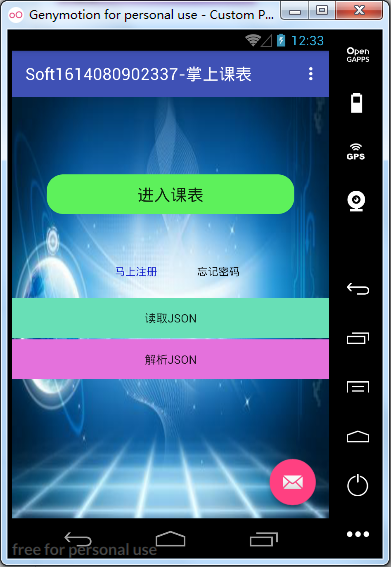
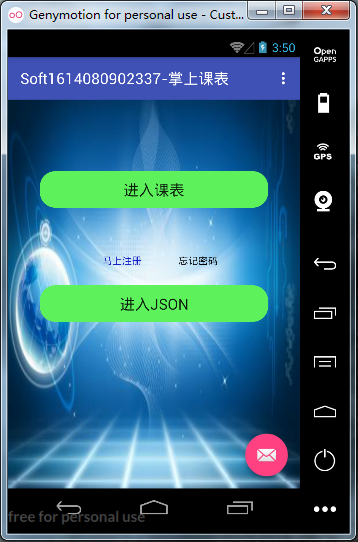
#6 实验六修改

diff --git a/soft1614080902337/app/java/JsonActivity.java b/soft1614080902337/app/java/JsonActivity.java
@@ -7,6 +7,8 @@ import android.support.v7.app.AppCompatActivity;
 import android.support.v7.widget.Toolbar;
 import android.util.Log;
 import android.view.View;
+import android.widget.Button;
+import android.widget.TextView;
 
 import org.json.JSONArray;
 import org.json.JSONException;
@@ -38,68 +40,98 @@ public class JsonActivity extends AppCompatActivity {
                         .setAction("Action", null).show();
             }
         });
-    }
 
-    //网络编程获取Json
-    public void getJson()
-    {
-        new Thread(
-                new Runnable() {
-                    @Override
-                    public void run() {
-                        String url_s = "https://raw.githubusercontent.com/DcXuhm/android-labs-2018/master/soft1614080902337/app/assets/text.json";
-                        try {
-                            URL url = new URL(url_s);
-                            HttpURLConnection conn =(HttpURLConnection)url.openConnection();
-                            conn.setConnectTimeout(5000);
-                            conn.setUseCaches(false);
+        Button readJson = (Button)findViewById(R.id.readJson);
+        Button parseJson = (Button)findViewById(R.id.parseJson);
+        final TextView Json_TV_read =(TextView)findViewById(R.id.Json_TV_read);
+        final TextView Json_TV_parse =(TextView)findViewById(R.id.Json_TV_parse);
 
-                            conn.connect();
-                            InputStream inputStream = conn.getInputStream();
-                            InputStreamReader reader = new InputStreamReader(inputStream);
-                            BufferedReader buffer = new BufferedReader(reader);
-                            if(conn.getResponseCode()==200)
-                            {
-                                String inputline;
-                                StringBuffer resultdata = new StringBuffer();
-                                while ((inputline = buffer.readLine())!=null)
-                                {
-                                    resultdata.append(inputline);
-                                }
-                                text=resultdata.toString();
-                                Log.v("out---------------->",text);
-                            }
-                        } catch (Exception e) {
-                            e.printStackTrace();
-                        }
-                    }
-                }
-        ).start();
-    }
-
-    public void parseJson()
-    {
-        new Thread(new Runnable() {
+        readJson.setOnClickListener(new View.OnClickListener() {
             @Override
-            public void run() {
+            public void onClick(View v) {
+                //网络编程获取Json
+                new Thread(
+                        new Runnable() {
+                            @Override
+                            public void run() {
+                                String url_s = "https://raw.githubusercontent.com/DcXuhm/android-labs-2018/master/soft1614080902337/app/assets/text.json";
+                                try {
+                                    URL url = new URL(url_s);
+                                    HttpURLConnection conn =(HttpURLConnection)url.openConnection();
+                                    conn.setConnectTimeout(5000);
+                                    conn.setUseCaches(false);
+
+                                    conn.connect();
+                                    InputStream inputStream = conn.getInputStream();
+                                    InputStreamReader reader = new InputStreamReader(inputStream);
+                                    BufferedReader buffer = new BufferedReader(reader);
+                                    if(conn.getResponseCode()==200)
+                                    {
+                                        String inputline;
+                                        StringBuffer resultdata = new StringBuffer();
+                                        while ((inputline = buffer.readLine())!=null)
+                                        {
+                                            resultdata.append(inputline);
+                                        }
+                                        text=resultdata.toString();
+                                    }
+                                } catch (Exception e) {
+                                    e.printStackTrace();
+                                }
+                            }
+                        }
+                ).start();
+                Json_TV_read.setText(text);
+            }
+        });
+
+
+        parseJson.setOnClickListener(new View.OnClickListener() {
+            @Override
+            public void onClick(View v) {
                 try {
                     JSONObject jsonObject = new JSONObject(text);
                     JSONArray jsonstudents = jsonObject.getJSONArray("students");
-                    String test;
                     for(int i=0;i<jsonstudents.length();i++)
                     {
                         JSONObject students = jsonstudents.getJSONObject(i);
-                        Log.d("The student is ",
-                                students.getString("name")+","+students.getString("Sex")+","+students.getInt("age"));
+                        Json_TV_parse.append("name:"+students.getString("name")+"\n");
+                        Json_TV_parse.append("Sex:"+students.getString("Sex")+"\n");
+                        Json_TV_parse.append("age:"+students.getString("age")+"\n");
                     }
 
                 } catch (Exception e) {
                     e.printStackTrace();
-                }
             }
-        }).start();
+        }}
+        );
+                                     }
 
-    }
+
+
+//    public void parseJson()
+//    {
+//        new Thread(new Runnable() {
+//            @Override
+//            public void run() {
+//                try {
+//                    JSONObject jsonObject = new JSONObject(text);
+//                    JSONArray jsonstudents = jsonObject.getJSONArray("students");
+//                    String test;
+//                    for(int i=0;i<jsonstudents.length();i++)
+//                    {
+//                        JSONObject students = jsonstudents.getJSONObject(i);
+//                        Log.d("The student is ",
+//                                students.getString("name")+","+students.getString("Sex")+","+students.getInt("age"));
+//                    }
+//
+//                } catch (Exception e) {
+//                    e.printStackTrace();
+//                }
+//            }
+//        }).start();
+//
+//    }
 
 
 }

diff --git a/soft1614080902337/app/java/Soft1614080902337Activity.java b/soft1614080902337/app/java/Soft1614080902337Activity.java
@@ -14,7 +14,7 @@ import android.widget.Button;
 
 public class Soft1614080902337Activity extends AppCompatActivity implements OnClickListener{
 
-    JsonActivity jsonActivity = new JsonActivity();
+
     @Override
     protected void onCreate(Bundle savedInstanceState) {
         super.onCreate(savedInstanceState);
@@ -33,20 +33,17 @@ public class Soft1614080902337Activity extends AppCompatActivity implements OnCl
 
         Button mybutton = (Button) findViewById(R.id.button);
         mybutton.setOnClickListener(this);
-        Button readJson = (Button)findViewById(R.id.readJson);
-        Button parseJson = (Button)findViewById(R.id.parseJson);
-        readJson.setOnClickListener(new OnClickListener() {
+
+        //进入Json读取和解析Activity
+        Button goJson = (Button)findViewById(R.id.goJson);
+        goJson.setOnClickListener(new OnClickListener() {
             @Override
             public void onClick(View v) {
-                jsonActivity.getJson();
+                Intent intent=new Intent(Soft1614080902337Activity.this,edu.hzuapps.androidlabs.soft1614080902337.JsonActivity.class);
+                startActivity(intent);
             }
         });
-        parseJson.setOnClickListener(new OnClickListener() {
-            @Override
-            public void onClick(View v) {
-                jsonActivity.parseJson();
-            }
-        });
+
     }
 
     @Override

diff --git a/soft1614080902337/report6.md b/soft1614080902337/report6.md
@@ -10,7 +10,7 @@
 3、在APP下创建Assets文件下，新建一个Json文件，填入合乎规范的Json格式内容，可以参考bejson网站。               
 4、将Json文件提交到Github上面，在网址上面获取它的URL，准备做HttpUrl连接。      
 5、新建JsonActivity，书写函数：读取获取的Url上的Json文件、解析获取的Json文件。  
-6、设置两个按钮监控是否读取、解析成功Json，观察控制台的输出情况。                 
+6、设置两个按钮监控是否读取、解析成功Json，观察Activity中的TextView显示结果。                 
 7、（例行公事)使用Git将代码、截图、报告提交到自己的库中：https：//github.com/YOUR_NAME/android-labs-2018    
 $ git pull  
 $ git add 学号目录/*  
@@ -24,7 +24,8 @@ $ git push
 
 ![在Android SDK Manager中选择6.0库](https://raw.githubusercontent.com/DcXuhm/android-labs-2018/master/soft1614080902337/实验6截图/实验六1.png "配置教育网下载代理")      
 ![在Android SDK Manager中选择6.0库](https://raw.githubusercontent.com/DcXuhm/android-labs-2018/master/soft1614080902337/实验6截图/实验六2.png "配置教育网下载代理")  
-![在Android SDK Manager中选择6.0库](https://raw.githubusercontent.com/DcXuhm/android-labs-2018/master/soft1614080902337/实验6截图/实验六3.png "配置教育网下载代理")    
+![在Android SDK Manager中选择6.0库](https://raw.githubusercontent.com/DcXuhm/android-labs-2018/master/soft1614080902337/实验6截图/实验六3.png "配置教育网下载代理")  
+![在Android SDK Manager中选择6.0库](https://raw.githubusercontent.com/DcXuhm/android-labs-2018/master/soft1614080902337/实验6截图/实验六4.png "配置教育网下载代理")    
 
   
  
